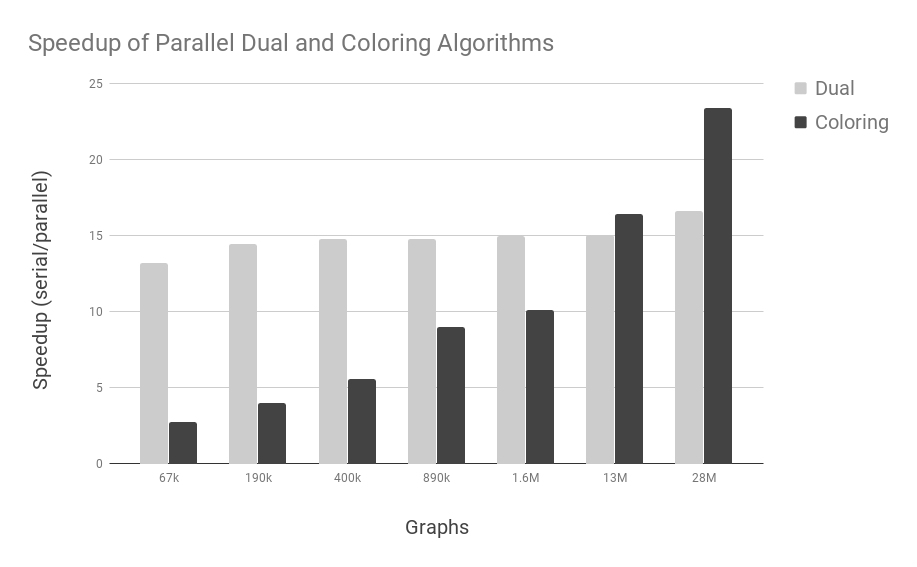
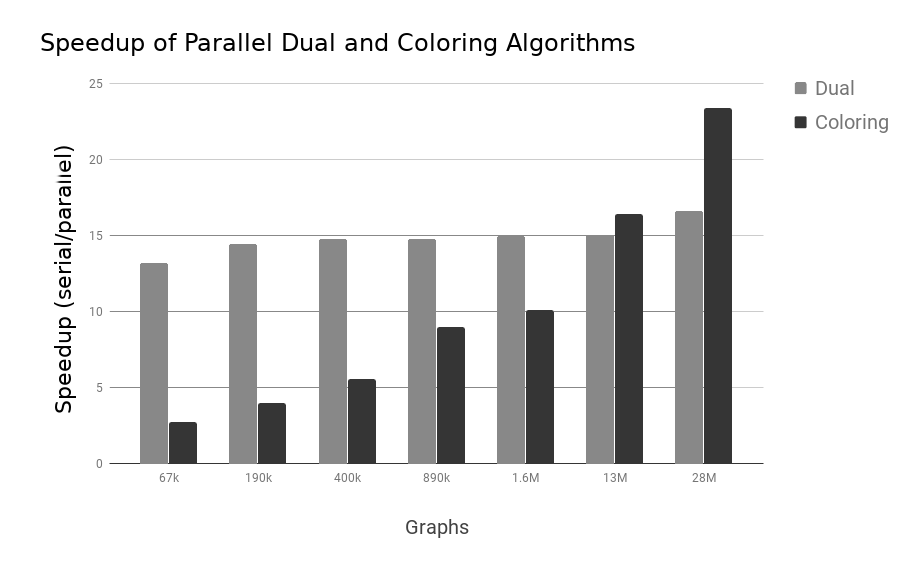
Some corrections and make figure easier to read when printed

diff --git a/IMR_18/engpar_imr18.tex b/IMR_18/engpar_imr18.tex
@@ -168,11 +168,11 @@ cost would be amortized across an entire run.
 
 \begin{figure}
   \centering
-  \label{fig:bfs}
   \includegraphics[width=0.8\textwidth]{images/bfsPerformance.png}
   \caption{
     Performance of breadth first traversal implementations.
   }
+  \label{fig:bfs}
 \end{figure}
 
 On the 28M mesh, the `scg\_int\_unroll' is 11 times
@@ -221,7 +221,6 @@ adjacent hyperedges.
 The resulting CSR, \verb|deg| and \verb|edgeList|, are passed directly to
 the Kokkos coloring procedure.
 
-\label{alg:dual}
 \algloopdefx[PFor]{PFor}[1]{\textbf{parallel for} #1 \textbf{do}}
 \algblock[Name]{Start}{End}
 \algblockdefx[NAME]{START}{END}
@@ -271,6 +270,7 @@ the Kokkos coloring procedure.
   \EndProcedure
 \end{algorithmic}
 \end{multicols}
+\label{alg:dual}
 \end{algorithm}
 
 The speedup of the dual and coloring procedures relative to serial
@@ -331,7 +331,7 @@ version for evaluation of overall performance and partition quality.
 
 \begin{acknowledgement}
 This research was supported by the U.S. Department of Energy, Office of Science,
-Office of Advanced Scientific Computing Research, under award DE-SC00066117
+Office of Advanced Scientific Computing Research, under award DE-AC53-07NA27344
 (FASTMath SciDAC Institute) and by the National Science Foundation under Grant
 No. ACI 1533581, (SI2-SSE: Fast Dynamic Load Balancing Tools for Extreme Scale
 Systems).
